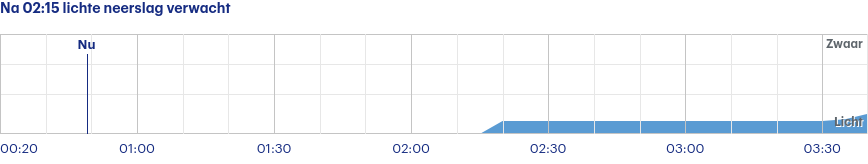
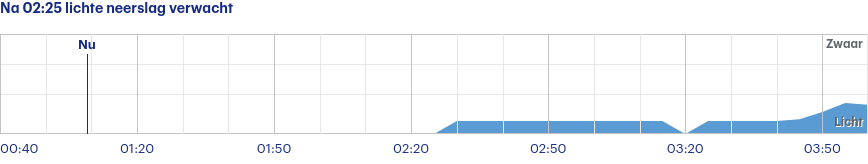
Latest scraping buienradar: Tue Aug  1 23:00:35 UTC 2023

diff --git a/scrapes/buienradar/buienradar-jette-3-uur.md b/scrapes/buienradar/buienradar-jette-3-uur.md
@@ -1,4 +1,4 @@
-Na 02:15 lichte neerslag verwacht
+Na 02:25 lichte neerslag verwacht
 
 ![](buienradar-jette-3-uur.png)
 
